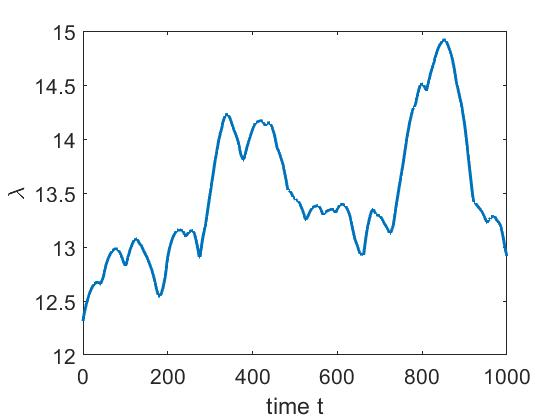
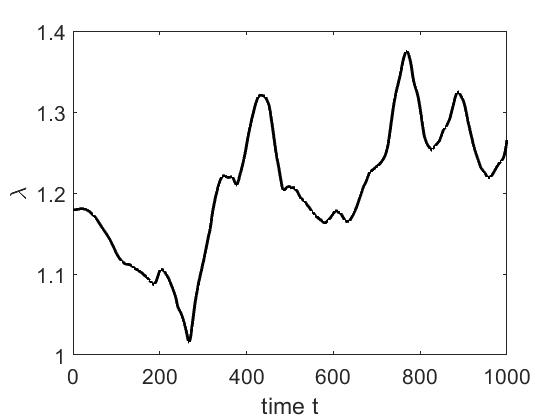
updates

diff --git a/doc/PRF2022/PRF_main.tex b/doc/PRF2022/PRF_main.tex
@@ -256,21 +256,22 @@ where the density function $\eeta$, translation velocity $\vv_i$ and angular vel
 
 \subsection{Normal Derivative of Double Layer Potential and HAP Energy}
 
-Suppose we use the double layer potential to express the solution of \eqref{eq:SL} where the condition is $f(u)=u^2$. Then it is given by 
+We adopt the double layer potential to express the solution of \eqref{eq:SL} where the condition is $f(u)=u^2$. Then it is given by 
 \begin{align}
+\label{eq:energy_BIE}
 u({\bf x}) = \DD[\sigma](\xx) = \int_\Gamma \frac{\partial G(\xx-\yy)}{\partial \nnu_\yy}\sigma(\yy)\, \dif s_\yy,
 \end{align}
 %
-where $G(\xx)$ is the fundamental solution to the screened Laplace equation \eqref{eq:SL}.
+where $G(\xx)$ is the fundamental solution to the screened Laplace equation \eqref{eq:SL} and $\nnu$ is the outward normal.
 Since the free energy functional can be written as 
 \begin{align}
 \label{eq:free_energy2}
   E[u(\xx)] &= C\rho \int_\Gamma u \frac{\partial u}{\partial \nnu}  \,\dif s, \quad \xx\in\Gamma_i,
 \end{align}
 %
-we can then use the following identity to calculate this boundary equation without evaluating 
-the normal derivative of the double layer potential directly.
+we can then refer to the identity (\cite{Hsiao2008}, \S 1.2) to calculate this boundary integral equation without evaluating the normal derivative of the double layer potential directly.
 
+Consider
 \begin{align}
 \nnu_\xx \cdot \nabla_\zz u(\zz) &=\nnu_\xx \cdot \nabla_\zz \int_\Gamma \frac{\partial G(\zz-\yy)}{\partial \nnu_\yy}\sigma(\yy) \,\dif s_\yy\\
 &=\int_\Gamma \nnu_\xx\cdot \left(\nabla_\zz\nabla_\yy^\top  G(\zz-\yy)\right)\cdot \nnu_\yy\sigma(\yy)  \,\dif s_\yy\\
@@ -286,10 +287,13 @@ Here ${\bf t}_\xx$ is the tangent vector at the point $\xx$ and $d/ds$ is the ar
 Letting $\zz\to\xx\in\Gamma$, we obtain
 %
 \begin{equation}
+\label{eq:normal_deriv}
 \frac{\partial}{\partial \nnu_\xx} \DD[\sigma](\xx) = -\frac1\rho^2 {\bf t}_\xx\cdot \SSS[\sigma{\bf t}](\xx) + \frac{\partial}{\partial s}\SSS\left[\frac{\partial \sigma}{\partial s}\right](\xx).
 \end{equation}
 %
 
+Substituting \eqref{eq:normal_deriv} to \eqref{eq:energy_BIE} provides the total energy calculation
+throughout this paper and this expression takes the advantage of not calculating the quadruple layer potential.
 
 %Suppose we split the solution to the screened Laplace boundary value problem~\eqref{eq:SL}
 %into smooth portion $w_i$ and singular portion $u_i$. That is, 
@@ -353,7 +357,7 @@ on particle $\Gamma_i$:
 \begin{equation}
   \label{eq:bcs}
   \begin{tabular}{c|c|c}
-     \text{(a)} & \text{(b)} & \text{(c)} \\
+     \text{(i)} & \text{(ii)} & \text{(iii)} \\
     \hline
     \rule{0pt}{4ex} 
       $g(\mathbf{x}) = \displaystyle \frac{1+\cos (\theta_i(\xx))}{\sqrt{3\pi r}}$
@@ -366,10 +370,10 @@ particle center $\aa_i$, and the particle director $\dd_i$.% (Figure \ref{fig:fl
 The normalizations e.g., $(\pi r)^{-1/2}$, provide a uniform
 surface energy $\int_{\Gamma_i} g^2 \,ds = 1$ for circular particles
 of radius $r$. 
-The cases (b) and (c) are obtained by applying a vertical shift
-and scaling to case (a), see Figure \ref{fig:bcs}.
-Using this setup, we simulate the dynamics of 60 particles with random
-initial position and orientation as shown in Figure~\ref{fig:relax}.
+The cases (ii) and (iii) are obtained by applying a vertical shift
+and scaling to case (i), see Figure \ref{fig:bcs}.
+Using this setup, we simulate the dynamics of 60 particles with one set of random
+initial positions and orientations as shown in Figure~\ref{fig:relax}(a).
 
 \begin{figure}
   \begin{center}
@@ -395,11 +399,11 @@ initial position and orientation as shown in Figure~\ref{fig:relax}.
   \includegraphics[width=0.4\textwidth]{Fig2d.png}
   \end{center}
   \vspace{-20pt}  
-  \caption{\label{fig:relax} (a) Initial configuration; (b)--(d) Equilibruim states for all boundary conditions~\eqref{eq:bcs}(a)--(c), respectively. Colors represent the boundary values that increases from minimum (blue) to maximum (red).  }
+  \caption{\label{fig:relax} (a) Initial configuration for $N_b=60$ structure. In order to expedite the self-assembly procedure, all particles are placed in a $8\times8$ box initially. (b)--(d) Equilibruim states for all boundary conditions~\eqref{eq:bcs}(i)--(iii), respectively. Colors represent the boundary values that increases from minimum (blue) to maximum (red).  Panel (b) reaches the equilibrium at $t=1200$; Panel (c) reaches the steady-state at $t=600$; Panel (d) reaches the final state at $t=180$.}
 \end{figure}
 
 
-Case (a) models amphiphilic particles.
+Case (i) models amphiphilic particles.
 Amphiphilic particles have a hydrophobic tail and a hydrophilic head
 and these are accounted for as follows.
 The hydrophilic side takes the value $u =0$.
@@ -413,20 +417,20 @@ one another. Figure~\ref{fig:relax}(b) demonstrates multiple bilayer structures 
 
 Multilamelar bilayers arise when both sides of the particle 
 are hydrophobic. 
-The boundary condition \eqref{eq:bcs}(b) 
+The boundary condition \eqref{eq:bcs}(ii) 
 gives a particle with a hydrophobic intensity that is greater
 on the $\theta_i = 0$ side than on the $\theta_i = \pi$ side.
-The initial self-assembly is similar to that in case (a).
+The initial self-assembly is similar to that in case (i).
 The difference arises in the long-time dynamics where the bilayers
 no longer remain well-separated. 
 Rather, the bilayers form layers 
 as a consequence of the interfacial tension of exposed particle
 heads.%~\cite{Huetal19, deMeetal21}. 
 Figure~\ref{fig:relax}(c) shows the multilamellar structure with 8 layers when $N_b=60$. 
-The number of folds depends on a number of factors, for instances, number of particles and intial configurations.
+The number of folds depends on several factors, for instances, number of particles and intial configurations.
 
 
-Finally, boundary condition \eqref{eq:bcs}(c) models 
+Finally, boundary condition \eqref{eq:bcs}(iii) models 
 a particle whose head surface repels the tail surface as proposed in
 \cite{MaRa76, Ma77}.
 The particles initially form chains with their directors perpendicular to the
@@ -441,16 +445,34 @@ Figure~\ref{fig:relax}(d) gives an example that this boundary condition results 
 \subsection{Collective Janus Particles Suspended in a Shear Flow}
 %%%
 
+
+Consider placing equilibrium states of boundary condition \eqref{eq:bcs} (ii) for 60 particles in a shear flow,
+\begin{equation}
+\uu_\infty(\xx) = \dot\gamma ({\bf e}_y\cdot\xx){\bf e}_x,
+\end{equation}
+%
+where $\dot\gamma$ is the shear rate. Figure~\ref{fig:shear_1} (a)--(c) show the snapshots of simulation results when $\dot\gamma=0.05$.
+We measure the ratio of major and minor axes $\lambda$ by adopting an ellipse fitting using the singular value decomposition and track the ratio of this multi-lamellar structure when the flow is on. 
+The result is shown in panel (d) and we observe that the multi-lamellar structure will be stretched 
+to a pancake shape while the ratio reaches above $\lambda=3.5$ level.
+
+Notice that for this simulation, the center of mass position of the initial configuration is not at the origin and it is slightly to the right of the origin. Therefore, the result has shown that the structure stretching occurs earlier that the case when we shift the center of mass position to the origin. 
+
 \begin{figure}
   \begin{center}
   \includegraphics[width=0.4\textwidth]{shear_0.png}
   \includegraphics[width=0.4\textwidth]{shear_1000.png}\\
   \includegraphics[width=0.4\textwidth]{shear_2000.png}
-    \includegraphics[width=0.4\textwidth]{shear_dist.jpg}
+    \includegraphics[width=0.4\textwidth]{shear_dist_all.jpg}
   \end{center}
   \vspace{-20pt}  
-  \caption{\label{fig:shear_1} Snapshots of simulation using boundary condition \eqref{eq:bcs}(b) in a shear flow when $\dot\gamma=0.05$. }
+  \caption{\label{fig:shear_1} Snapshots of simulation using boundary condition \eqref{eq:bcs}(ii) in a shear flow when $\dot\gamma=0.05$. }
 \end{figure}
+
+%%%
+
+The second set of simulation is putting the equilibrium state of the boundary condition \eqref{eq:bcs} (iii), the checker board, in a shear flow. After a set of empirical numerical investigations, we obtain a critical shear rate $\dot\gamma=0.15$ where the checker board deforms into stripes and small groups of JP. Figure~\ref{fig:shear_2}(a)--(d) show configurations when $t=\{0,50,100,150\}$. %The deformation starts with stripe separations
+
 
 
 
@@ -464,16 +486,6 @@ Figure~\ref{fig:relax}(d) gives an example that this boundary condition results 
   \vspace{-20pt}  
   \caption{\label{fig:shear_2} Snapshots of simulation using boundary condition \eqref{eq:bcs}(c) in a shear flow when $\dot\gamma=0.15$. }
 \end{figure}
-
-
-Consider placing equilibrium states of cases (b) and (c) for 60 particles in a shear flow,
-\begin{equation}
-\uu_\infty(\xx) = \dot\gamma ({\bf e}_y\cdot\xx){\bf e}_x,
-\end{equation}
-%
-where $\dot\gamma$ is the shear rate. 
-
-We measure the end-to-end distance of the multi-lamellar structure when the flow is on. 
 
 
 \subsection{Collective Janus Particles Suspended in a Taylor-Green Flow}
